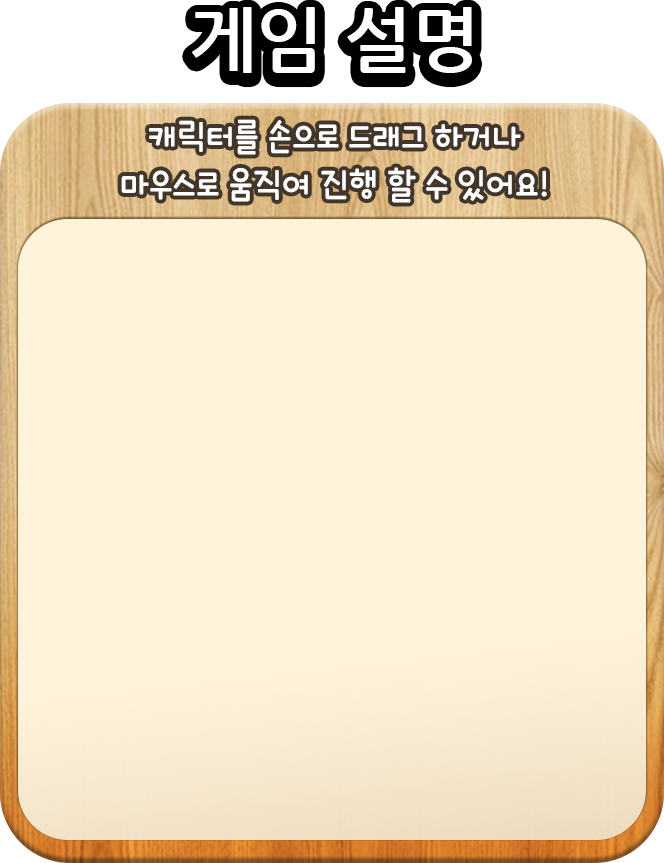
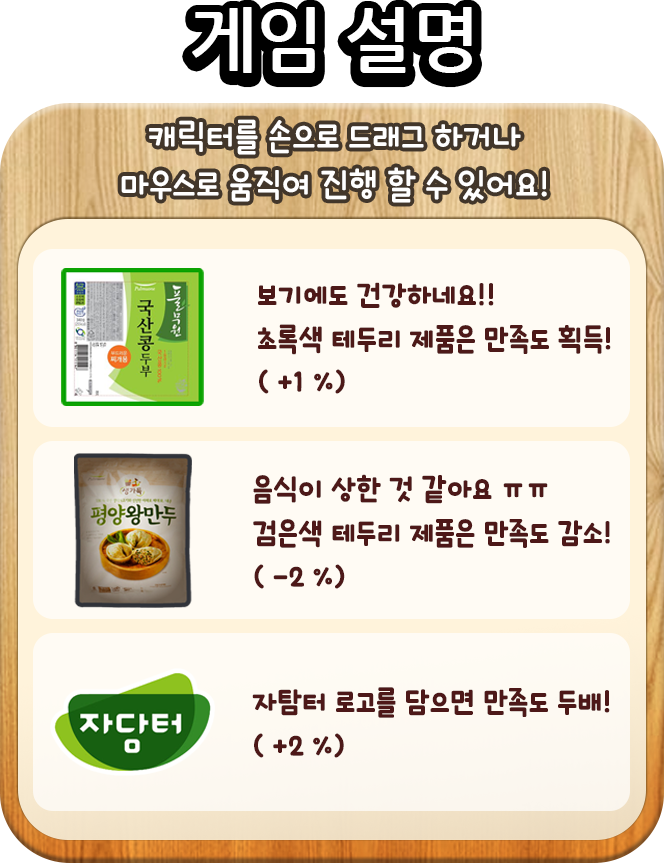
no message

diff --git a/main.html b/main.html
@@ -12,7 +12,6 @@
 <body>
 </body>
 <script type="text/javascript" src="./js/phaser.min.js"></script>
-<script type="text/javascript" src="./js/phaser-spine.min.js"></script>
 <script type="text/javascript">
   var game = new Phaser.Game(360, 640, Phaser.CANVAS, null, {
     preload: preload,
@@ -22,9 +21,7 @@
   });
   var instruction; //게임 시작 전 화면 배경
   var startBtn; //시작버튼
-
   var bg; // 게임 배경 이미지
-
   var box; // 그룹 형성용 이미지
   var player // 플레이어
   var enemy; // 회피물
@@ -37,6 +34,12 @@
   var score = 0; // 점수
   var txtScore;
   var eventScore;
+  var img_1;//1
+  var img_2;//2
+  var img_3;//3
+  var img_GO;//GO!
+  var isHit=false; //충돌 유무 확인
+  var player_y_record=-1;//최초 플레이어 y지점 기록
 
 
   /* -----PRELOAD----- */
@@ -50,9 +53,26 @@
     /* 그룹 형성 시에 사용할 박스 이미지 로드 */
     game.load.image("box", "./images/box.png");
     /* 플레이어를 기본 32x40 크기로 설정. 'player' 이름으로 생성 */
-    game.load.spritesheet("player", "./images/player.png", 32, 40);
+    game.load.spritesheet("player", "./images/player.png", 256, 256);
     /* 회피물 로드 */
     game.load.image("enemy", "./images/enemy.png");
+    /* 카운트다운 이미지 로드 */
+    game.load.image("img_1", "./images/count/1.png");
+    game.load.image("img_2", "./images/count/2.png");
+    game.load.image("img_3", "./images/count/3.png");
+    game.load.image("img_GO", "./images/count/GO!.png");
+    /* 아이템 로드 */
+    game.load.image("g_obj_01", "./images/items/g_obj_01.png");
+    game.load.image("g_obj_01", "./images/items/g_obj_02.png");
+    game.load.image("g_obj_01", "./images/items/g_obj_03.png");
+    game.load.image("g_obj_01", "./images/items/g_obj_04.png");
+    game.load.image("g_obj_01", "./images/items/g_obj_05.png");
+    game.load.image("g_obj_01", "./images/items/g_obj_06.png");
+    game.load.image("g_obj_01", "./images/items/g_obj_07.png");
+    game.load.image("g_obj_01", "./images/items/g_obj_08.png");
+    game.load.image("g_obj_01", "./images/items/jadamteo.png");
+
+
   }
 
 
@@ -80,13 +100,11 @@
     );
     startBtn.scale.setTo(0.5, 0.5);
 
-
-
     // create a custom time
     timer = game.time.create();
 
     // create a delayed event 1m and 30s from now
-    timerEvent = timer.add(Phaser.Timer.MINUTE * 1 + Phaser.Timer.SECOND * 30, this.endTimer, this);
+    timerEvent = timer.add(Phaser.Timer.MINUTE * 2, this.endTimer, this);
 
 
     /* box 그룹 생성 */
@@ -133,13 +151,14 @@
       //  400 is the speed it will move towards the mouse
       //game.physics.arcade.moveToPointer(player, 400);
       game.physics.arcade.moveToXY(player, game.input.x, game.height, 1000);
-      if (game.input.mousePointer.x > player.x) {
-        player.animations.play("right");
-      } else if (game.input.mousePointer.x < player.x) {
-        player.animations.play("left");
+      if(isHit) {
+        player.animations.play("good");
+      }
+      else if (game.input.mousePointer.x > player.x || game.input.mousePointer.x < player.x) {
+        player.animations.play("run");
       } else {
-        player.animations.stop();
-        player.frame = 3;
+        //player.animations.stop();
+        // player.frame = 3;
       }
     }
 
@@ -157,8 +176,9 @@
       // box 중 랜덤으로 하나를 골라서 회피물 생성
       if (enemyAlive && enemyArray.length > 0) {
         var random = game.rnd.integerInRange(0, enemy.length - 1);
-        var enemyBox = enemyArray[random];
-        enemyAlive.reset(enemyBox.body.x, 80);
+        //var enemyBox = enemyArray[random];
+        var x = getRandomInt(10,game.width-20);
+        enemyAlive.reset(x, 80);
         game.physics.arcade.moveToXY(enemyAlive, enemyAlive.x, game.height, 150);
       }
     }
@@ -196,44 +216,131 @@
 
 
   function enemyHitsPlayer(playerPoint, enemy) {
+    if(player_y_record==-1){
+      player_y_record=player.y;
+    }
     enemy.kill();
+    isHit=true;
+    //20 만큼 점프
+    player.y=player_y_record-10;
     //life = 0;
     //txtGameover.visible = true;
     score++;
     txtScore.setText("Score: " + score);
+    setTimeout(function() {
+      isHit=false;
+    }, 500);
   }
 
   function startBtnClick() {
     instruction.visible = false;
     startBtn.visible = false;
 
+    /* start countdown animation */
+    popupCount();
+  }
+
+  function count_GO(millisecondsToWait, ratio) {
+    img_GO = game.add.sprite(
+      (game.world.centerX - (game.cache.getImage("img_GO").width * 1.2) / 2), (game.world.centerY - (game.cache.getImage("img_GO").height * 1.2 / 2)), "img_GO"
+    );
+    img_GO.scale.setTo(1.2, 1.2);
+
+    // pop_GO = game.add.tween(img_GO.scale).to( { x: ratio, y: ratio }, 300, Phaser.Easing.Elastic.In, true);
+    setTimeout(function() {
+      // pop_GO = game.add.tween(img_GO.scale).to( { x: 0, y: 0 }, 10, Phaser.Easing.Elastic.In, true);
+      img_GO.visible = false;
+      gameStart();
+    }, millisecondsToWait);
+  }
+
+  function count_1(millisecondsToWait, ratio) {
+    img_1 = game.add.sprite(
+      (game.world.centerX - (game.cache.getImage("img_1").width) / 2), (game.world.centerY - (game.cache.getImage("img_1").height / 2)), "img_1"
+    );
+
+    // pop_1 = game.add.tween(img_1.scale).to( { x: ratio, y: ratio }, 300, Phaser.Easing.Elastic.In, true);
+    setTimeout(function() {
+      // pop_1 = game.add.tween(img_1.scale).to( { x: 0, y: 0 }, 1, Phaser.Easing.Elastic.In, true);
+      // count_GO(millisecondsToWait,ratio);
+      img_1.visible = false;
+      count_GO(millisecondsToWait);
+    }, millisecondsToWait);
+  }
+
+  function count_2(millisecondsToWait, ratio) {
+    img_2 = game.add.sprite(
+      (game.world.centerX - (game.cache.getImage("img_2").width) / 2), (game.world.centerY - (game.cache.getImage("img_2").height / 2)), "img_2"
+    );
+
+    // pop_2 = game.add.tween(img_2.scale).to( { x: ratio, y: ratio }, 300, Phaser.Easing.Elastic.In, true);
+    setTimeout(function() {
+      // pop_2 = game.add.tween(img_2.scale).to( { x: 0, y: 0 }, 1, Phaser.Easing.Elastic.In, true);
+      // count_1(millisecondsToWait,ratio);
+      img_2.visible = false;
+      count_1(millisecondsToWait);
+    }, millisecondsToWait);
+  }
+
+  function count_3(millisecondsToWait, ratio) {
+    img_3 = game.add.sprite(
+      (game.world.centerX - (game.cache.getImage("img_3").width) / 2), (game.world.centerY - (game.cache.getImage("img_3").height / 2)), "img_3"
+    );
+    // img_3.anchor.set(0.5);
+    // img_3.smoothed = false;
+    //
+    // game.physics.enable(img_3, Phaser.Physics.ARCADE);
+    // img_3.body.immovable = true;
 
 
-    for (var i = 0; i < game.width / 40; i++) {
-      var rowBox = box.create(i * 40, 80, "box");
+
+    // pop_3 = game.add.tween(img_3.scale).to( { x: ratio, y: ratio }, 300, Phaser.Easing.Elastic.In, true);
+    // game.add.tween(img_3.scale).to( { x: ratio, y: ratio }, 300, Phaser.Easing.Linear.None, true);
+    setTimeout(function() {
+      // pop_3 = game.add.tween(img_3.scale).to( { x: 0, y: 0 }, 1, Phaser.Easing.Elastic.In, true);
+      // count_2(millisecondsToWait,ratio);
+      img_3.visible = false;
+      count_2(millisecondsToWait);
+    }, millisecondsToWait);
+  }
+
+  function popupCount() {
+    var millisecondsToWait = 700;
+    //var ratio=2;
+
+    //count_3(millisecondsToWait,ratio);
+    count_3(millisecondsToWait);
+  }
+
+  function gameStart() {
+    for (var i = 0; i < game.width / 10; i++) {
+      var rowBox = box.create(i * 10, 80, "box");
       rowBox.body.immovable = true; // box가 움직이지 못하도록 설정
-      rowBox = box.create(i * 40, game.height - 40, "box");
+      rowBox = box.create(i * 10, game.height - 10, "box");
       rowBox.body.immovable = true; // box가 움직이지 못하도록 설정
     }
-    for (var j = 3; j < game.height / 40; j++) {
-      var colBox = box.create(0, j * 40, "box");
+    for (var j = 9; j < game.height / 10; j++) {
+      var colBox = box.create(0, j * 10, "box");
       colBox.body.immovable = true; // box가 움직이지 못하도록 설정
-      colBox = box.create(game.width - 40, j * 40, "box");
+      colBox = box.create(game.width - 10, j * 10, "box");
       colBox.body.immovable = true; // box가 움직이지 못하도록 설정
     }
 
     /* 플레이어 추가 */
-    player = game.add.sprite((game.width) / 2, game.height - 80, "player");
+    player = game.add.sprite((game.width) / 2, (game.height) / 2, "player");
+    player.scale.setTo(0.5,0.5);
     game.physics.arcade.enable(player);
-    // 0,1,2 번째 프레임을 0.1초 단위로 반복하는 애니메이션 생성
-    player.animations.add("left", [0, 1, 2], 10, true);
-    // 4,5,6 번째 프레임을 0.1초 단위로 반복하는 애니메이션 생성
-    player.animations.add("right", [4, 5, 6], 10, true);
+    // 평상시 뛰는 애니메이션
+    player.animations.add("run", [0, 1, 2, 3, 4, 5, 6, 7], 10, true);
+    // 긍정적 아이템 습득시 애니메이션
+    player.animations.add("good", [9], 10, false);
+    // 부정적 아이템 습득시 애니메이션
+    player.animations.add("bad", [8], 10, false);
 
     enemy.enableBody = true;
     enemy.physicsBodyType = Phaser.Physics.ARCADE;
     enemy.createMultiple(5, "enemy");
-    // enemy 변수가 겡미 레이어 밖으로 벗어나면 해당 객체를 삭제
+    // enemy 변수가 게임 레이어 밖으로 벗어나면 해당 객체를 삭제
     enemy.setAll("outOfBoundsKill", true);
     enemy.setAll("checkWorldBounds", true);
 
@@ -243,6 +350,29 @@
     timer.start();
 
   }
+
+  /**
+ * Randomize array element order in-place.
+ * Using Durstenfeld shuffle algorithm.
+ */
+function shuffleArray(array) {
+    for (var i = array.length - 1; i > 0; i--) {
+        var j = Math.floor(Math.random() * (i + 1));
+        var temp = array[i];
+        array[i] = array[j];
+        array[j] = temp;
+    }
+    return array;
+}
+
+/**
+ * Returns a random integer between min (inclusive) and max (inclusive)
+ * Using Math.round() will give you a non-uniform distribution!
+ */
+function getRandomInt(min, max) {
+    return Math.floor(Math.random() * (max - min + 1)) + min;
+}
+
 </script>
 
 </html>
